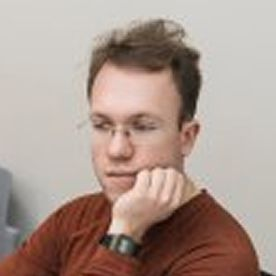
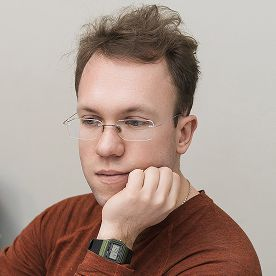
up

diff --git a/src/components/Player.js b/src/components/Player.js
@@ -98,7 +98,19 @@ const Eject = (p)=>(<Button icon={'eject'} {...p}/>)
 const Equalizer = ()=>(null)
 const Volume = ()=>(null)
 const Time = ()=>(null)
-const Progress = ()=>(null)
+const Progress = ({ progress })=>{
+    const { icons=[] } = useConfig()
+   
+    return (
+        <div className='progress' style={{ '--progress': `${progress*100}%` }}>
+            <div>
+                <div className='progressPin'>
+                    <Pic src={icons.progress} noGutter/>
+                </div>
+            </div>
+        </div>
+    )
+}
 
 const Track = ({ index='', current, title='', duration='', onSelect })=>(
     <div className={cx('trackCont', current&&'current')}
@@ -127,6 +139,7 @@ export const Player = ({
     medias, 
     tracks,
     current, 
+    progress,
     isPlaying,
     navigatePrev,
     navigateTo,
@@ -170,6 +183,9 @@ export const Player = ({
                         </Overlay>
                         <Overlay ly="0.643" w100>
                             <CurrentTrack title={tracks[current]?.title} index={-1}/>
+                        </Overlay>
+                        <Overlay ly="0.69" w100>
+                            <Progress progress={progress}/>
                         </Overlay>
                         
                         <Overlay ly="0.96" w100>

diff --git a/src/views/App.js b/src/views/App.js
@@ -73,11 +73,19 @@ export function App({ project, data }) {
   },500),[player])
 
   const [curBack, _setCurBack] = useState(-1)
+  const [curProgress, setCurProgress] = useState(0)
   const setCurBack = (cback)=>{
     _setCurBack(cback)
     debouncePlay(cback)
   }
-  useRegistryEvent('backs', 'point', point=>setCurBack(point.index))
+  useRegistryEvent('backs', 'point', (point)=>{
+    // trace('point', point)
+
+    setCurProgress(point.continous-(point.continous|0))
+
+    if(curBack != point.index)
+      setCurBack(point.index)
+  },[curBack])
 
   useEffect(()=>{
     const nsw = Math.min(720, scene.width)
@@ -154,7 +162,7 @@ export function App({ project, data }) {
         // '--scrolly': scrollPos,
       }}
     >
-    <Way name="backs"/>
+    <Way name="backs" continous throttle={100}/>
     <Way name="nav"/>
     <AnalyticsAnchor id="anchor-01"/>
     <Setup/>
@@ -173,6 +181,7 @@ export function App({ project, data }) {
         tracks={tracks}
         isPlaying={player.isPlaying}
         current={curBack}
+        progress={curProgress}
         navigatePrev={navigatePrev}
         navigateTo={navigateTo}
         navigateNext={navigateNext}
